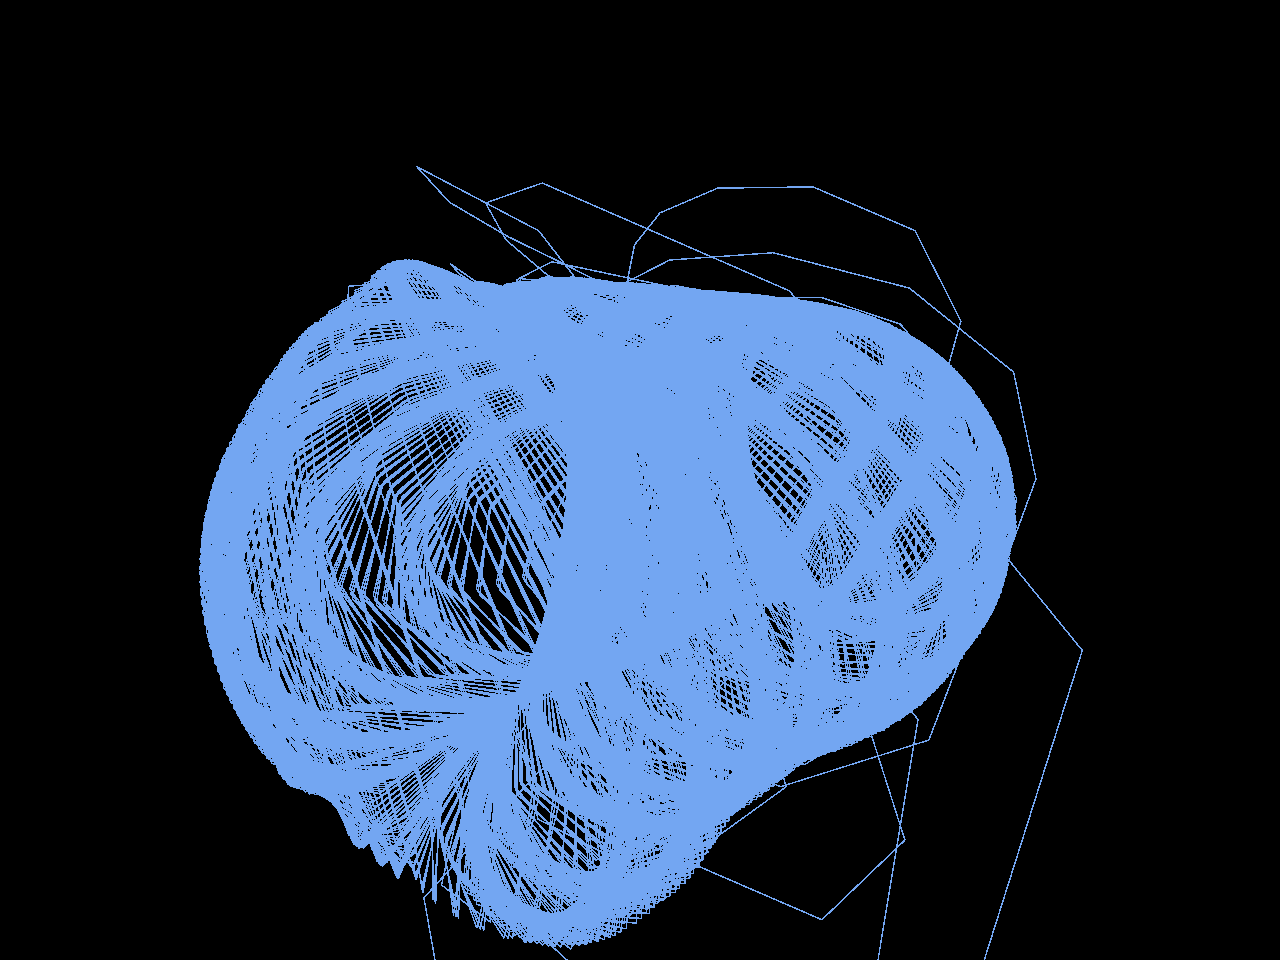
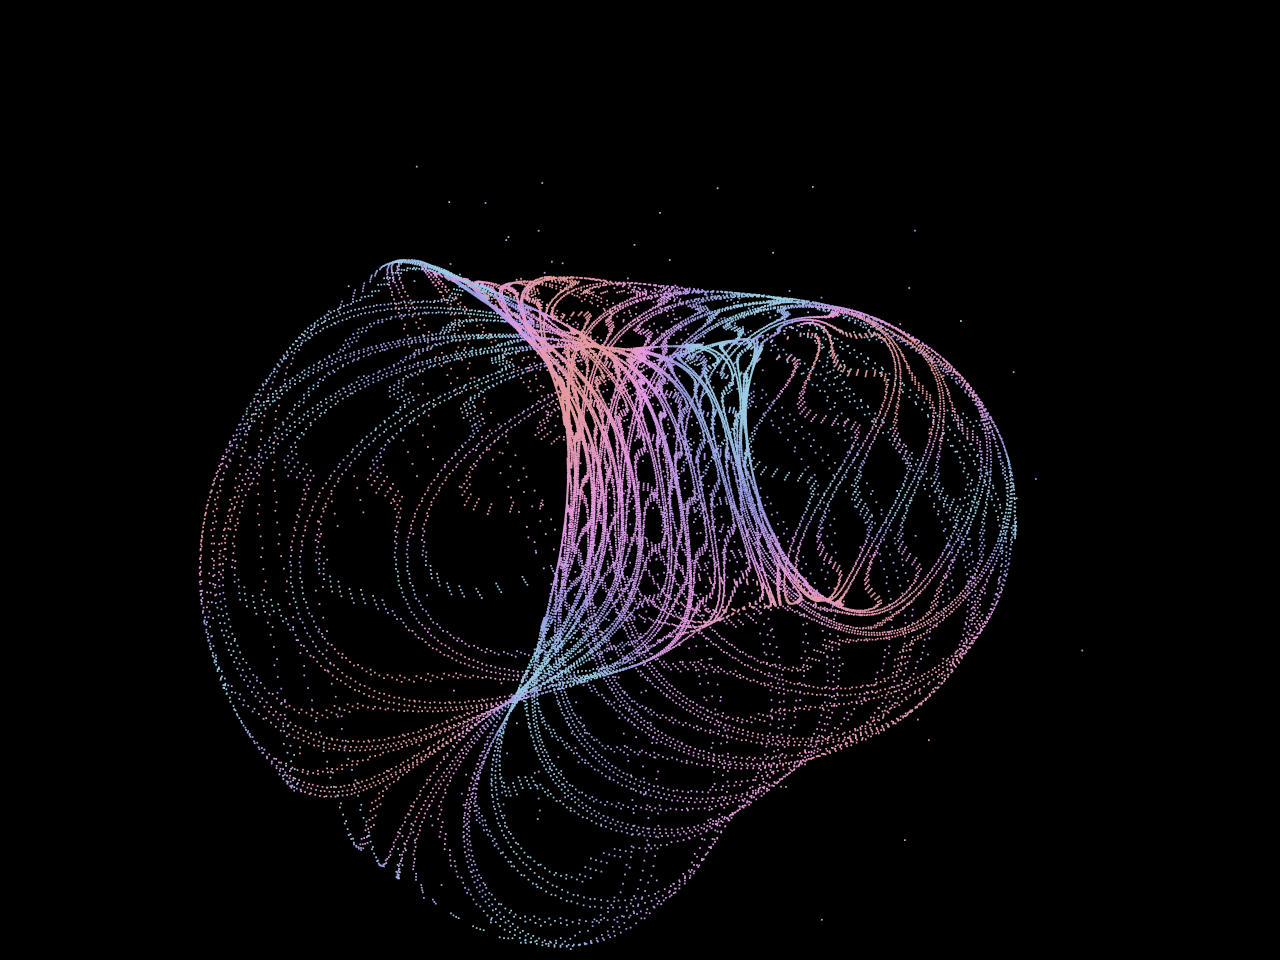
Lorenz 86: point cloud + archive HSL colours.

diff --git a/packages/frontend/src/pages/attractors/lorenz_86.tsx b/packages/frontend/src/pages/attractors/lorenz_86.tsx
@@ -10,9 +10,25 @@ import { resolveParticleCount } from '../../modules/embedMode'
 import { isScreenshotMode } from '../../modules/screenshotMode'
 import { lorenz86Tick } from '../../utils/lorenz86'
 
-const COOL = { r: 0.2, g: 0.45, b: 0.85 }
-const WARM = { r: 0.95, g: 0.55, b: 0.35 }
-const SOLID = { r: 0.45, g: 0.65, b: 0.95 }
+/** Archive: HSL hue from sin(x·y) in ~200–360°, sat/light 50%. */
+const writeArchiveColor = (colors: Float32Array, i: number, x: number, y: number) => {
+	const t = (Math.sin(x * y) + 1) * 0.5
+	const h = (200 + t * 160) / 360
+	const s = 0.5
+	const l = isScreenshotMode() ? 0.55 : 0.5
+	const q = l < 0.5 ? l * (1 + s) : l + s - l * s
+	const p = 2 * l - q
+	const hue2rgb = (tt: number) => {
+		let u = tt
+		if (u < 0) u += 1
+		if (u > 1) u -= 1
+		if (u < 1 / 6) return p + (q - p) * 6 * u
+		if (u < 1 / 2) return q
+		if (u < 2 / 3) return p + (q - p) * (2 / 3 - u) * 6
+		return p
+	}
+	colors.set([hue2rgb(h + 1 / 3), hue2rgb(h), hue2rgb(h - 1 / 3)], i * 3)
+}
 
 type TrailState = {
 	x: number
@@ -37,22 +53,6 @@ const seedTrail = (): TrailState => ({
 	g: Number.NaN,
 	d: Number.NaN,
 })
-
-const writeColor = (colors: Float32Array, i: number, t: number) => {
-	if (isScreenshotMode()) {
-		colors.set([SOLID.r, SOLID.g, SOLID.b], i * 3)
-		return
-	}
-	const fade = t < 0.65 ? 0 : (t - 0.65) / 0.35
-	colors.set(
-		[
-			COOL.r + (WARM.r - COOL.r) * fade,
-			COOL.g + (WARM.g - COOL.g) * fade,
-			COOL.b + (WARM.b - COOL.b) * fade,
-		],
-		i * 3,
-	)
-}
 
 const Lorenz86Attractor = () => {
 	const dispatch = useAppDispatch()
@@ -124,12 +124,7 @@ const Lorenz86Attractor = () => {
 			trail.d = d
 		}
 
-		const denom = Math.max(particlesToDraw - 1, 1)
-
 		if (particlesToDraw <= trail.computed) {
-			for (let i = 0; i < particlesToDraw; i++) {
-				writeColor(colors, i, i / denom)
-			}
 			updateProgressUI(particlesToDraw, totalParticles)
 			checkCompletion(particlesToDraw, totalParticles)
 			return particlesToDraw
@@ -152,11 +147,8 @@ const Lorenz86Attractor = () => {
 				[-y * scale - ox, x * scale - oy, z * scale - oz],
 				computed * EDimensions.THREE_D,
 			)
+			writeArchiveColor(colors, computed, x, y)
 			computed += 1
-		}
-
-		for (let i = 0; i < particlesToDraw; i++) {
-			writeColor(colors, i, i / denom)
 		}
 
 		trail.x = x
@@ -173,10 +165,9 @@ const Lorenz86Attractor = () => {
 	return (
 		<Base<TData>
 			dimension={EDimensions.THREE_D}
-			numParticles={resolveParticleCount(25_000)}
+			numParticles={resolveParticleCount(30_000)}
 			tick={tick}
-			drawMode="line"
-			lineOpacity={isScreenshotMode() ? 1 : 0.55}
+			pointSize={1.75}
 			autoRotate={!isScreenshotMode()}
 			autoRotateSpeed={0.25}
 			cameraPosition={[0, 0, 95]}
@@ -201,9 +192,9 @@ Lorenz86Attractor.getDescription = () => (
 		<BlockMath math={'\\dot{z} = -z + f x y + x z'} />
 		<br />
 		Archive defaults: <InlineMath math="a=1.111,\ b=4.494,\ f=1.479,\ g=0.44" />,{' '}
-		<InlineMath math="d=0.13" />, seed <InlineMath math="(0,0,0)" />. Cool→warm GPU line trail
-		(archive drew points; the step size keeps the stroke angular). Transport <code>n</code> scrubs
-		length. Classic Lorenz stays at <code>/lorenz_attractor</code>.
+		<InlineMath math="d=0.13" />, seed <InlineMath math="(0,0,0)" />. Drawn as a point cloud with
+		archive-style HSL from <InlineMath math="\\sin(xy)" />. Transport <code>n</code> scrubs count.
+		Classic Lorenz stays at <code>/lorenz_attractor</code>.
 	</>
 )
 
